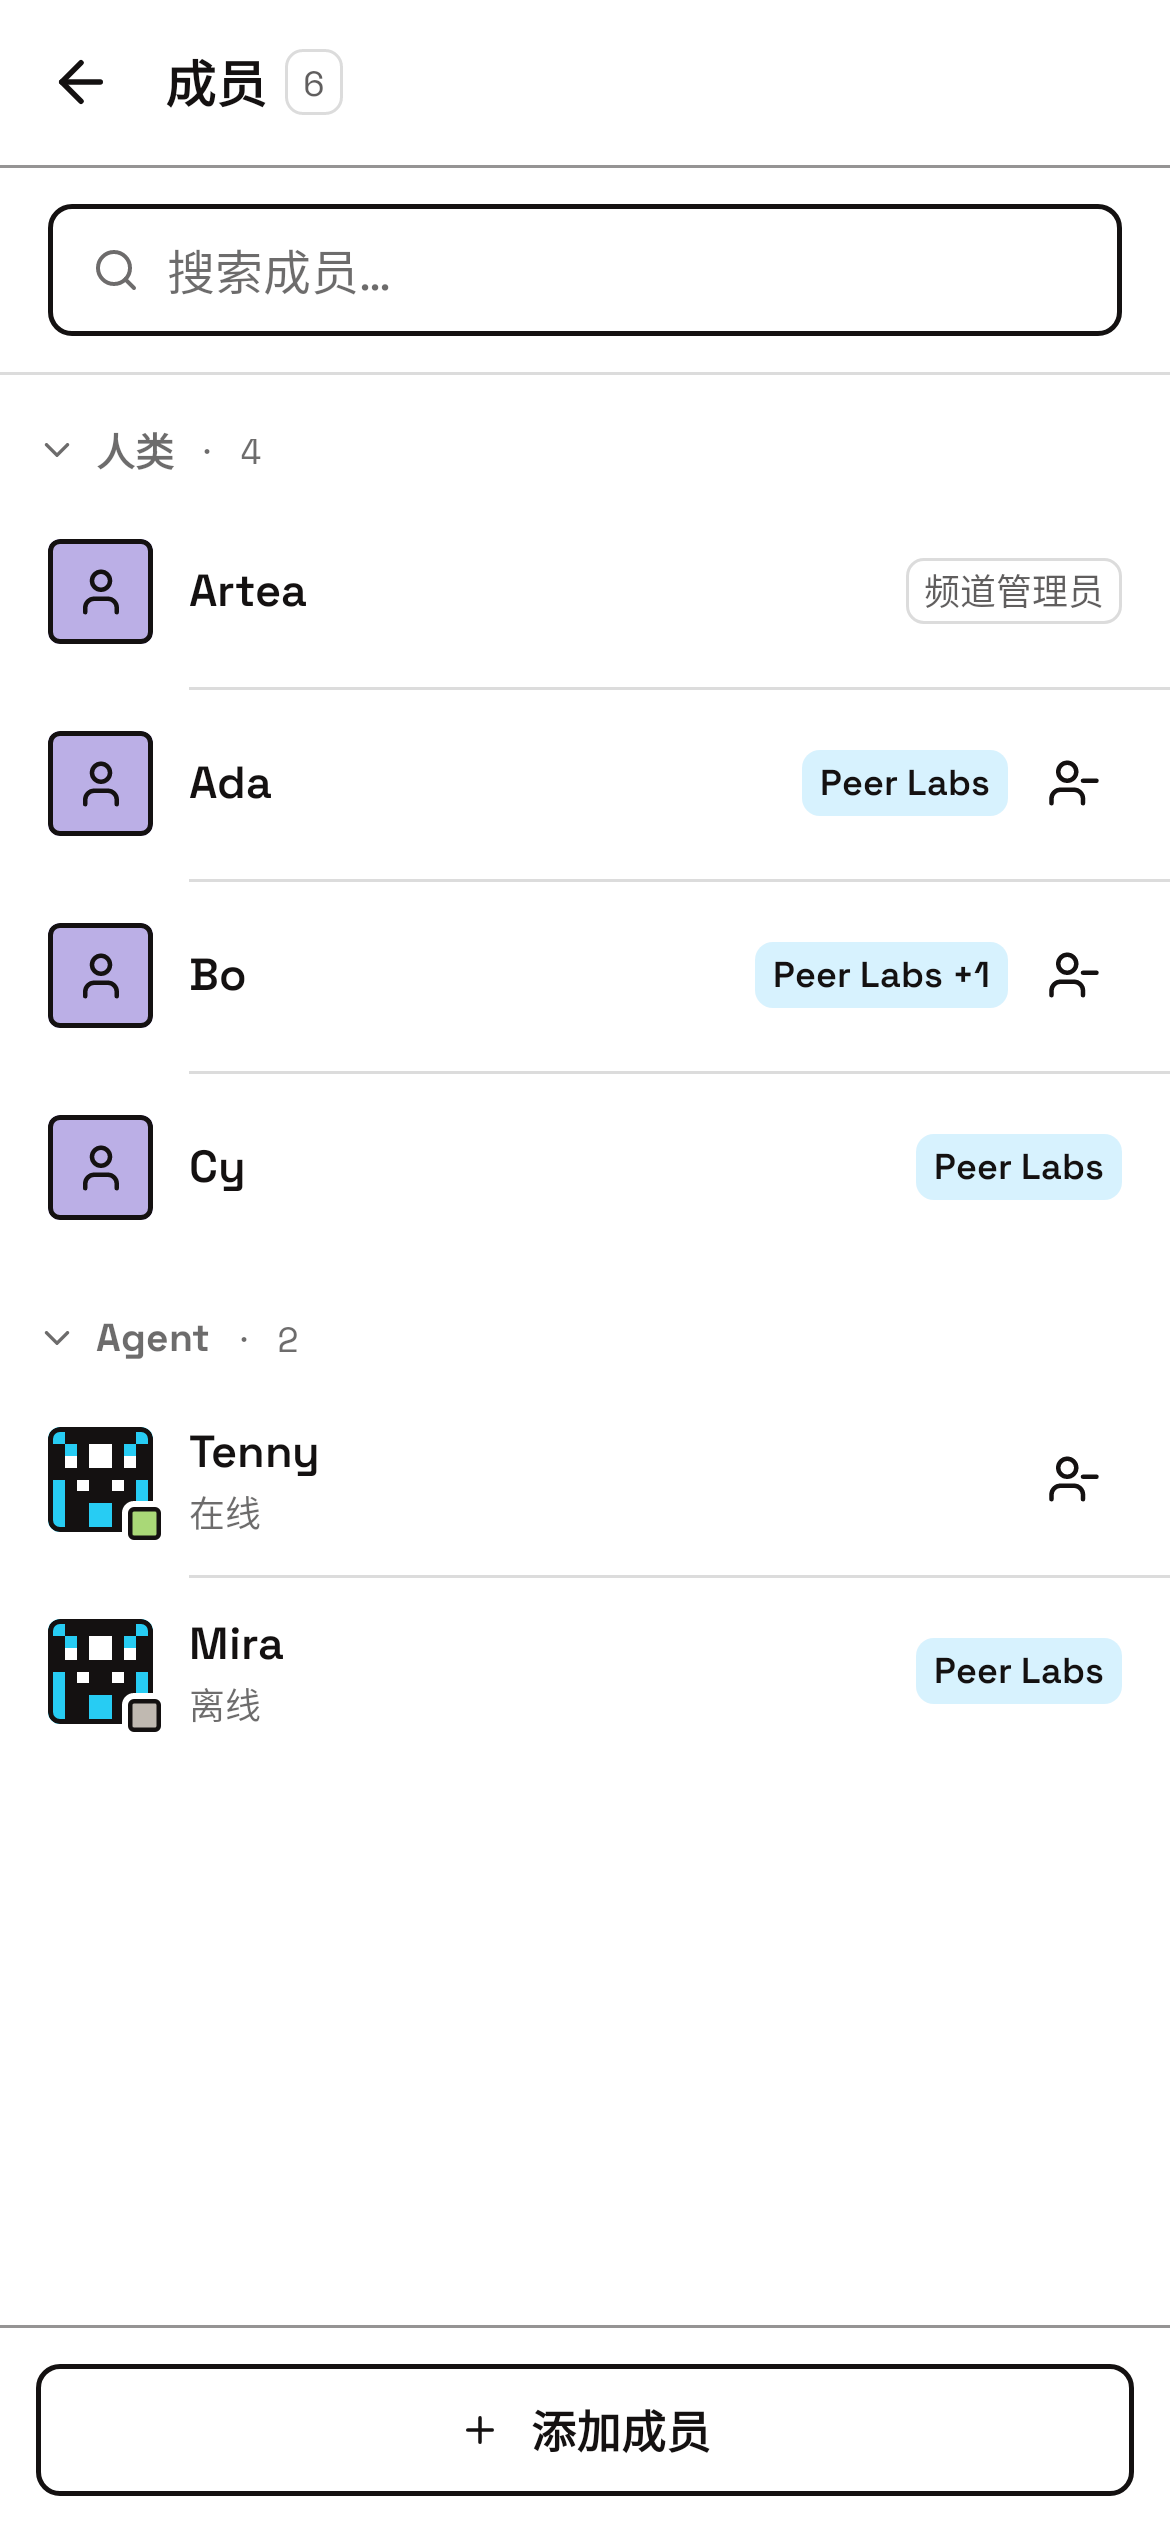
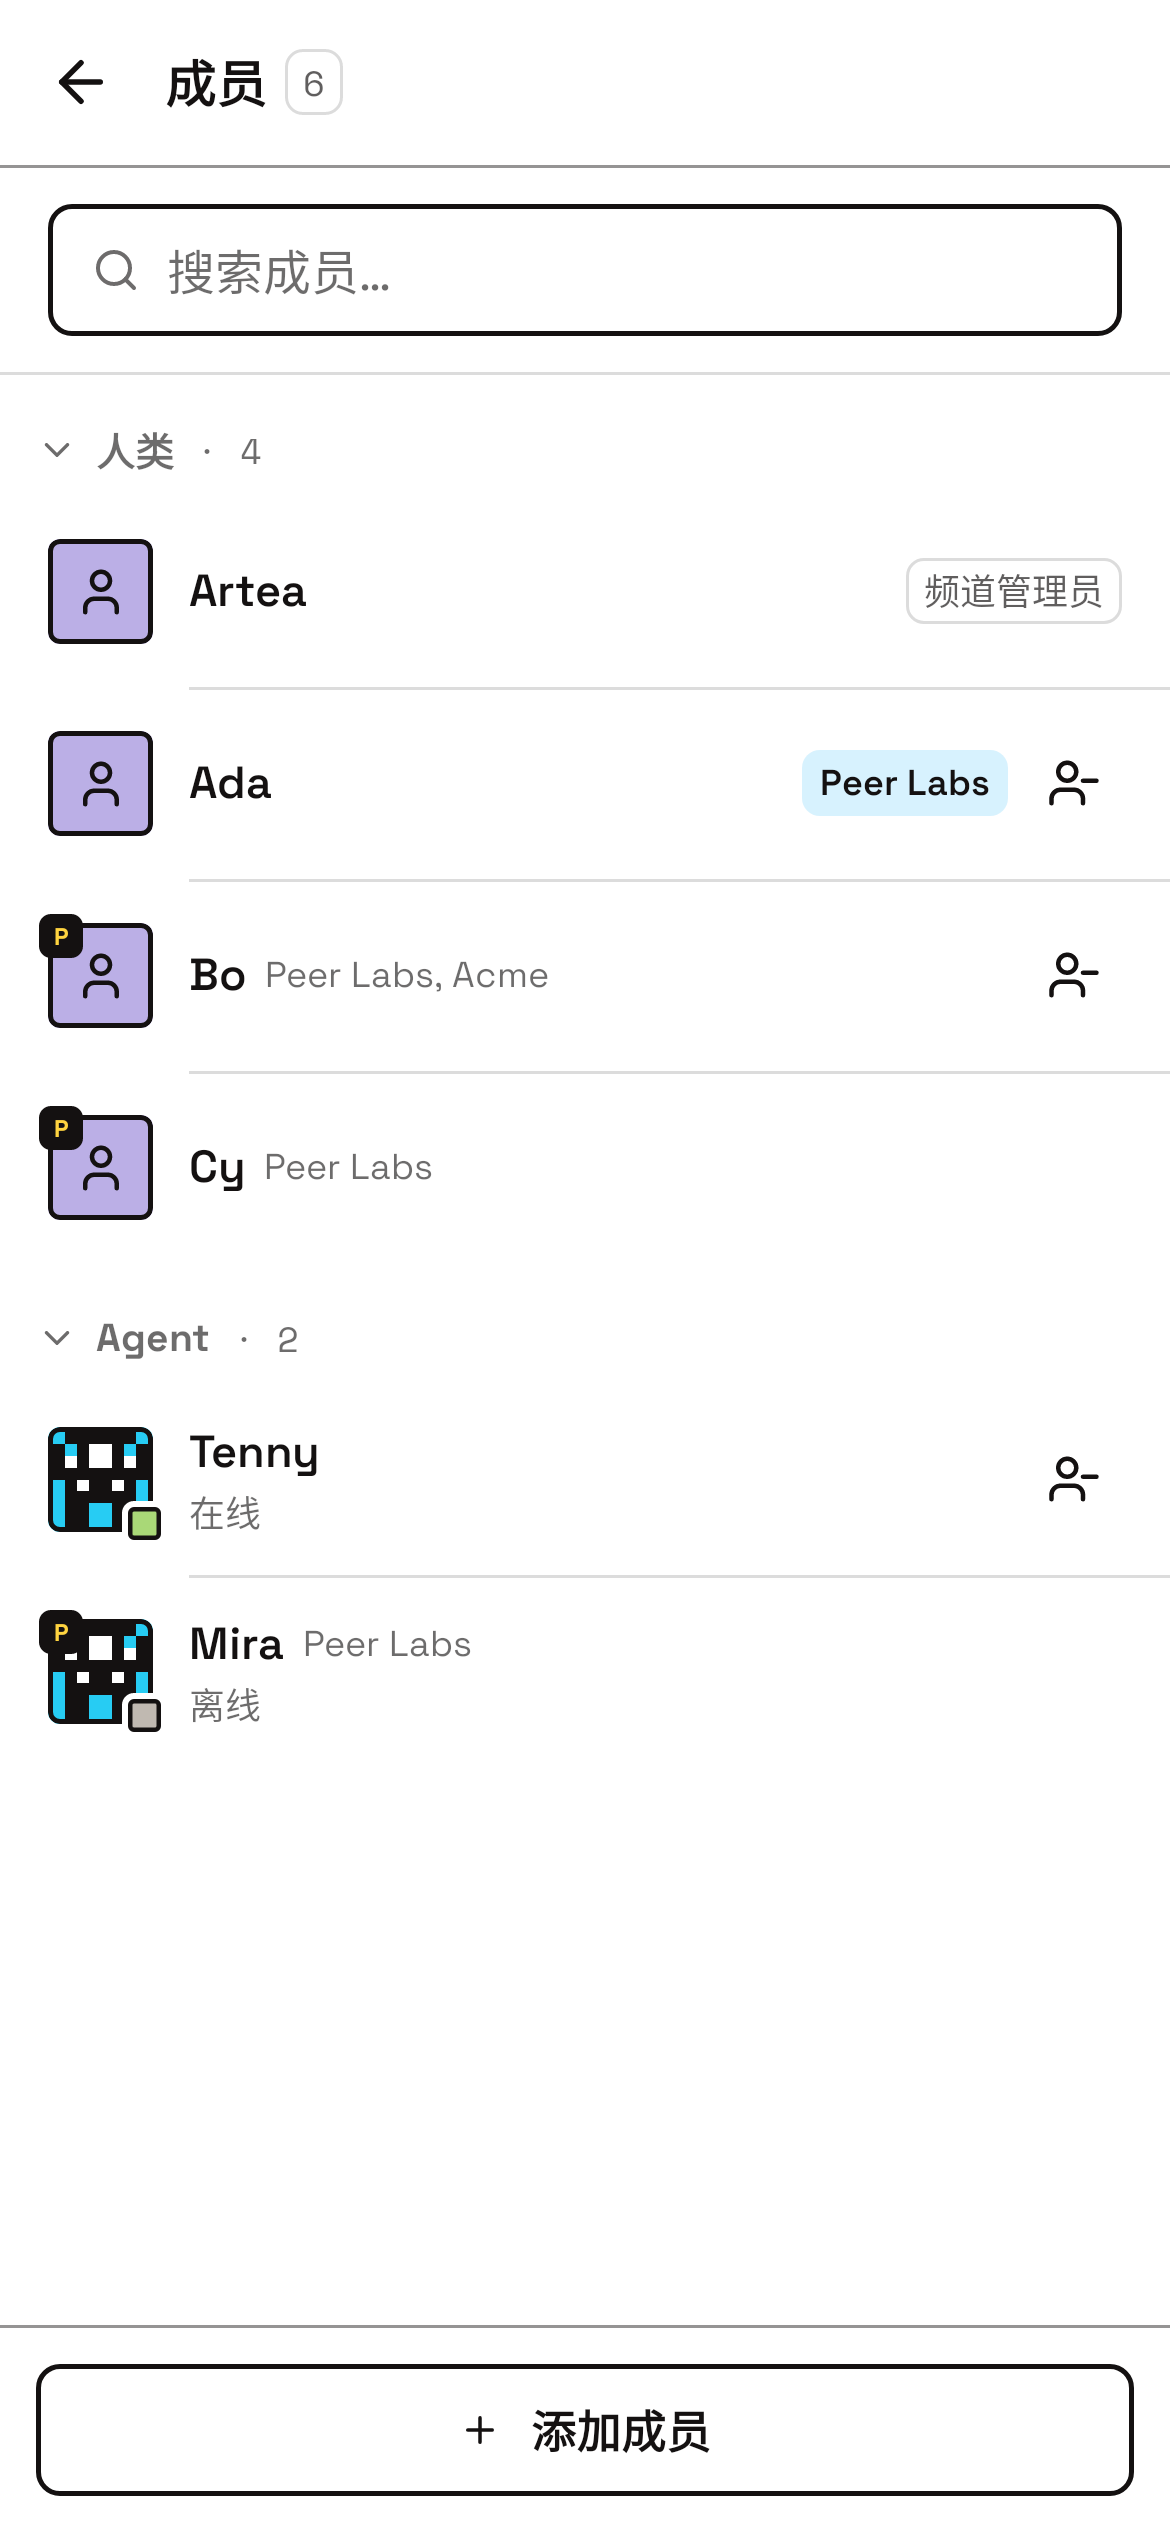
test(members): add external-member origin screenshot goldens; set changeset PR number
Goldens recorded by CI run 43364289040 (shared-screenshots-recorded).

diff --git a/change-logs/1.25.0/changesets/external-member-server-badge.md b/change-logs/1.25.0/changesets/external-member-server-badge.md
@@ -5,7 +5,7 @@ platforms:
   - android
   - ios
   - desktop
-pull_request: TBD
+pull_request: 4673
 rollout: full
 ---
 
